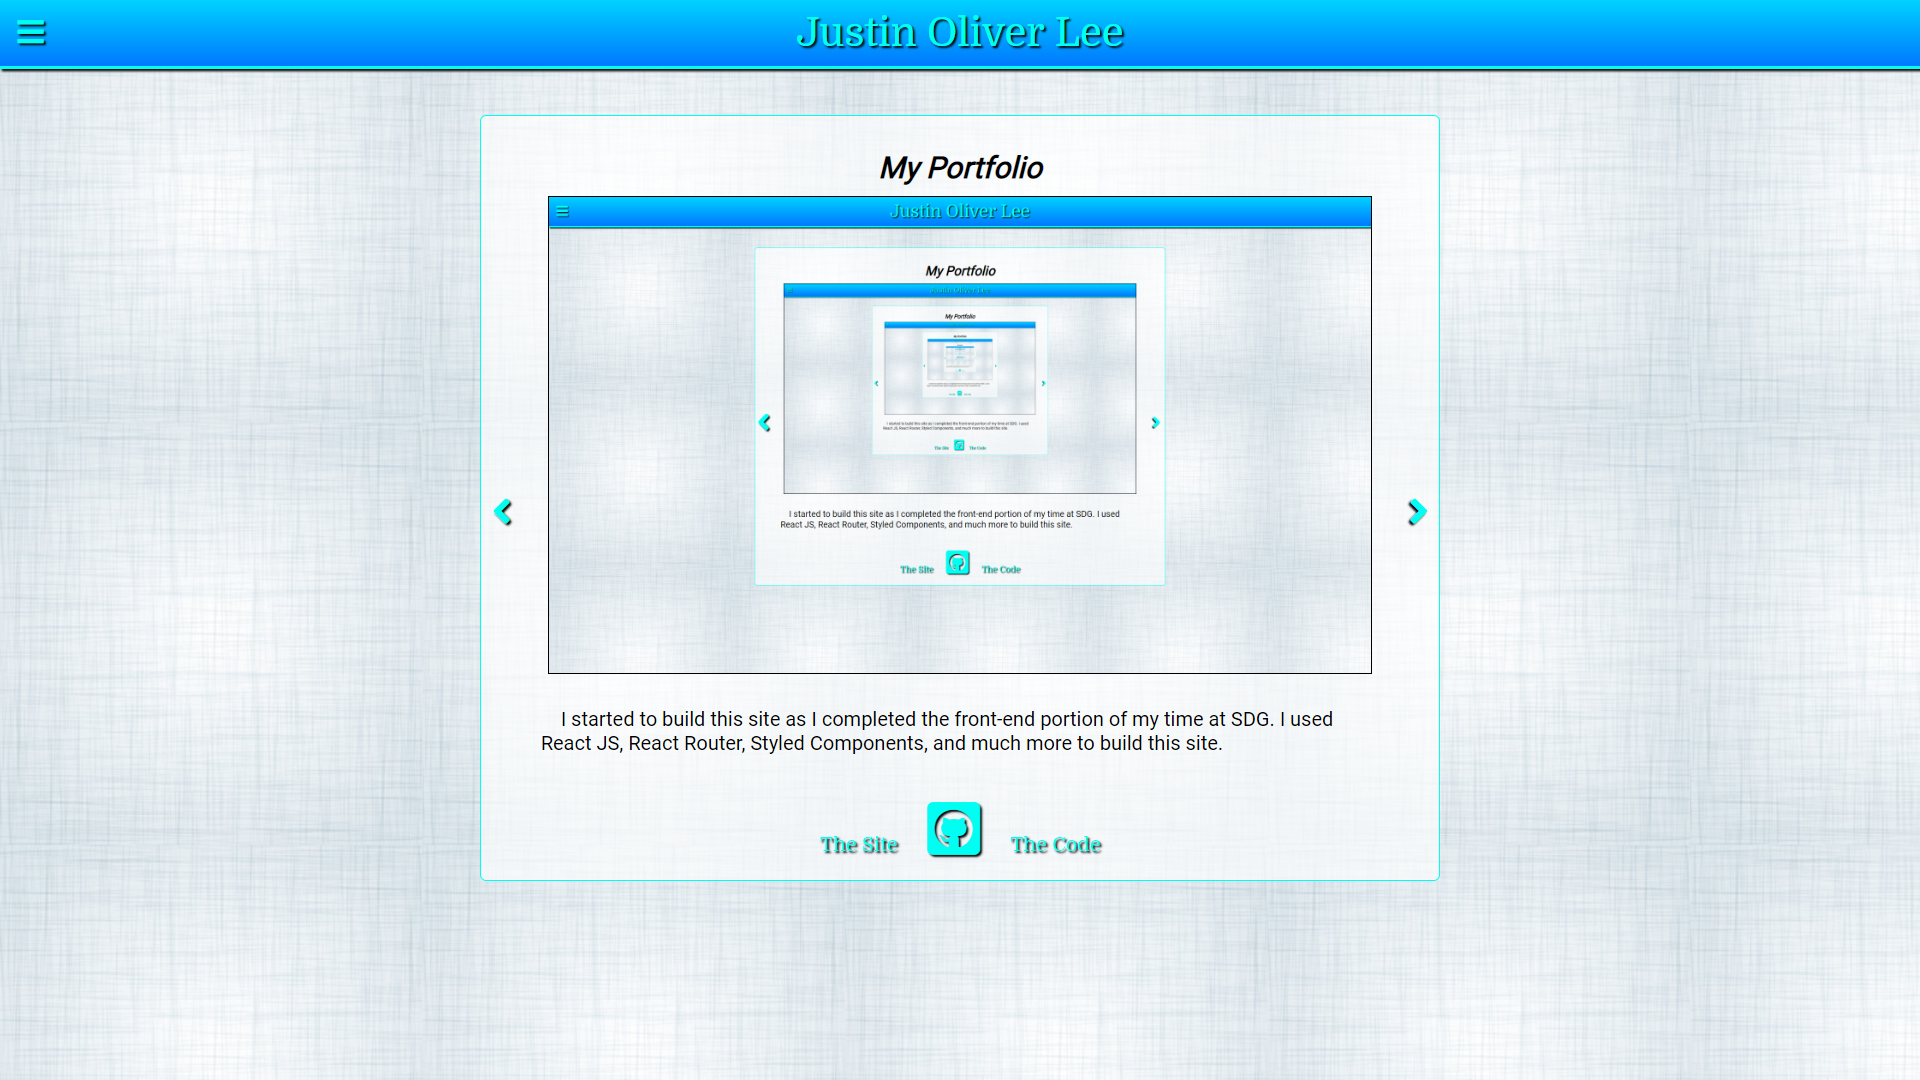
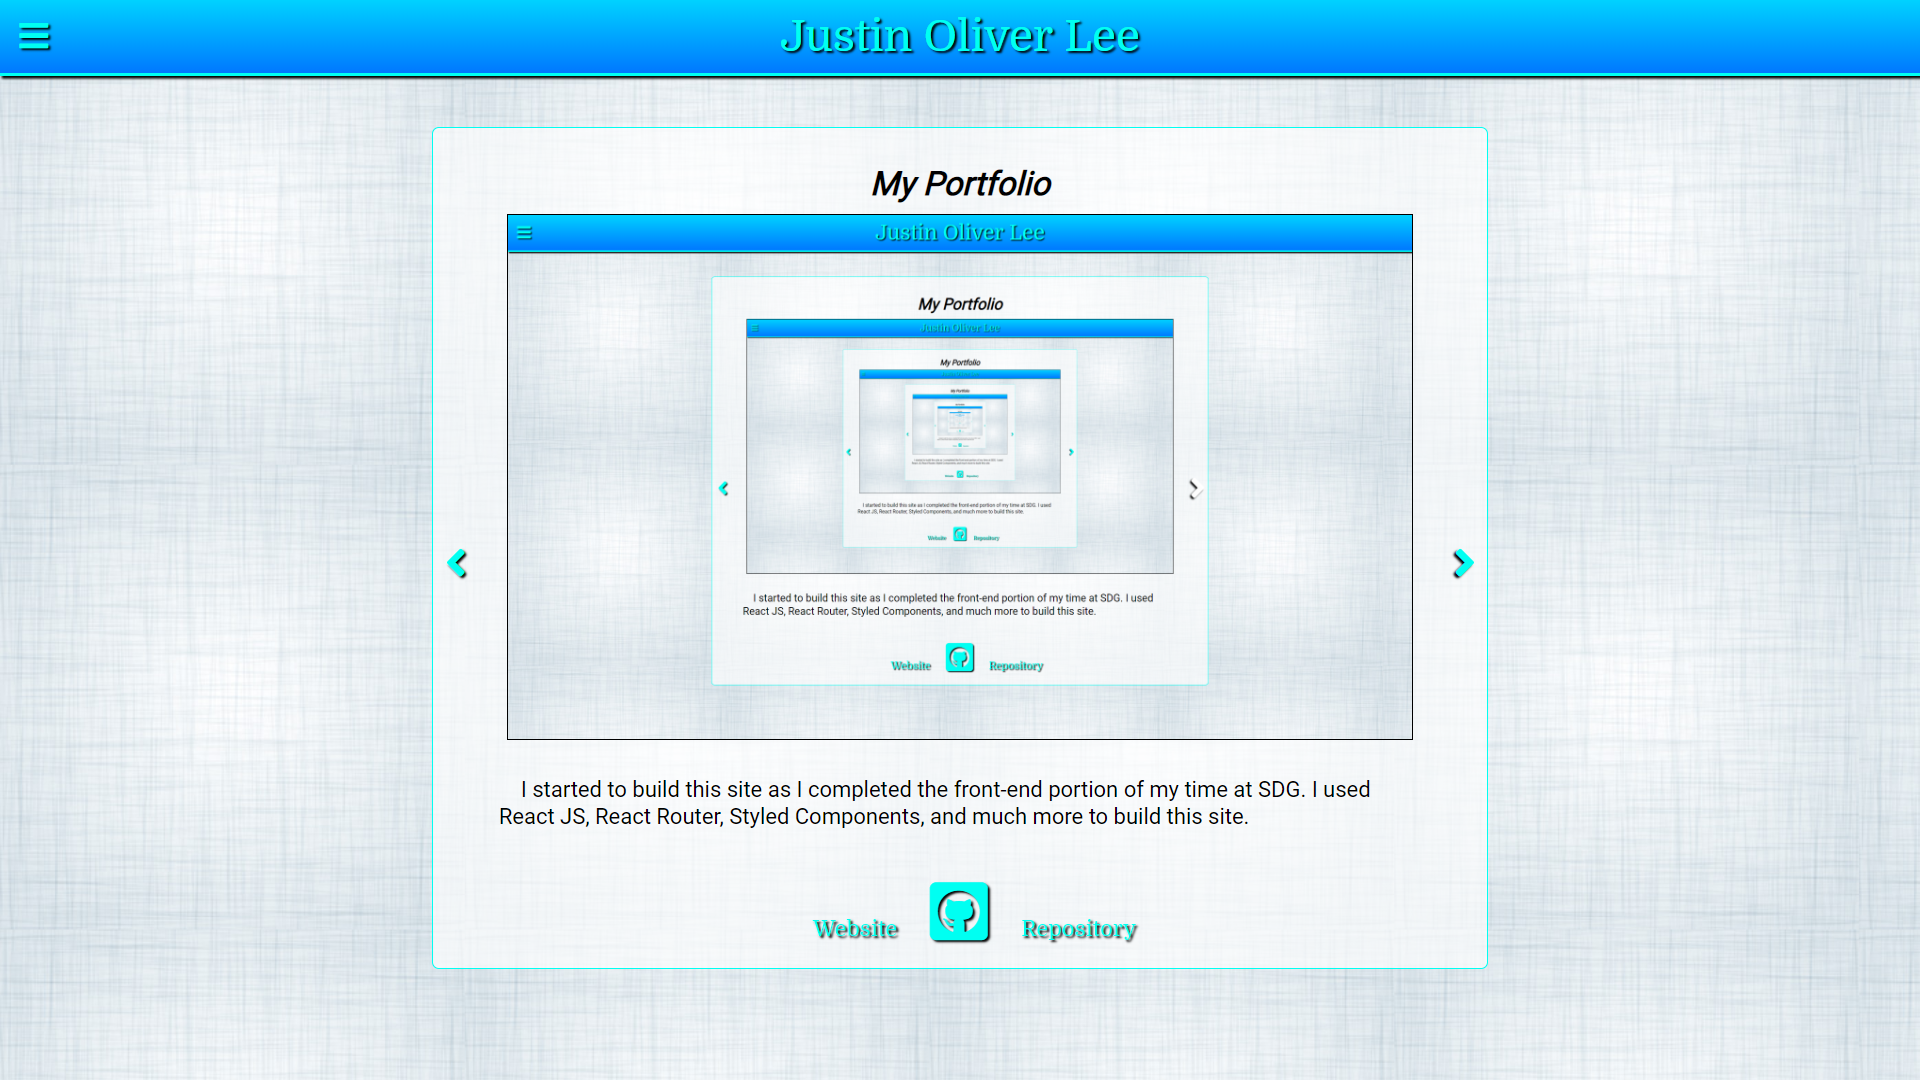
added to JSON

diff --git a/src/index.css b/src/index.css
@@ -152,7 +152,8 @@ section i {
 	color: rgb(0, 255, 242);
 	font-size: 2rem;
 	text-shadow: -0.1rem 0.1rem 0.1rem black;
-	transition: text-shadow 0.5s ease-in-out, transform 0.5s ease-in-out;
+	transition: text-shadow 0.5s ease-in-out, transform 0.5s ease-in-out,
+		color 0.5s ease-in-out;
 }
 
 .backArrow {
@@ -163,7 +164,8 @@ section i {
 	color: rgb(0, 255, 242);
 	font-size: 2rem;
 	text-shadow: 0.1rem 0.1rem 0.1rem black;
-	transition: text-shadow 0.5s ease-in-out, transform 0.5s ease-in-out;
+	transition: text-shadow 0.5s ease-in-out, transform 0.5s ease-in-out,
+		color 0.5s ease-in-out;
 }
 .backArrow:active,
 .nextArrow:active {
@@ -202,6 +204,7 @@ section i {
 	.backArrow:hover,
 	.nextArrow:hover {
 		transform: scale(1.5);
+		color: rgba(255, 255, 255, 0.993);
 	}
 	header {
 		flex-direction: row-reverse;

diff --git a/src/Components/Portfolio/Slide.js b/src/Components/Portfolio/Slide.js
@@ -28,6 +28,9 @@ const ShowMyWork = styled.div`
 			white-space: pre-wrap;
 			margin-top: 0;
 		}
+		aside{
+			margin: 0 48.5% 0 51.5%;
+		}
 	}
 	a {
 		padding: 0 .5rem;
